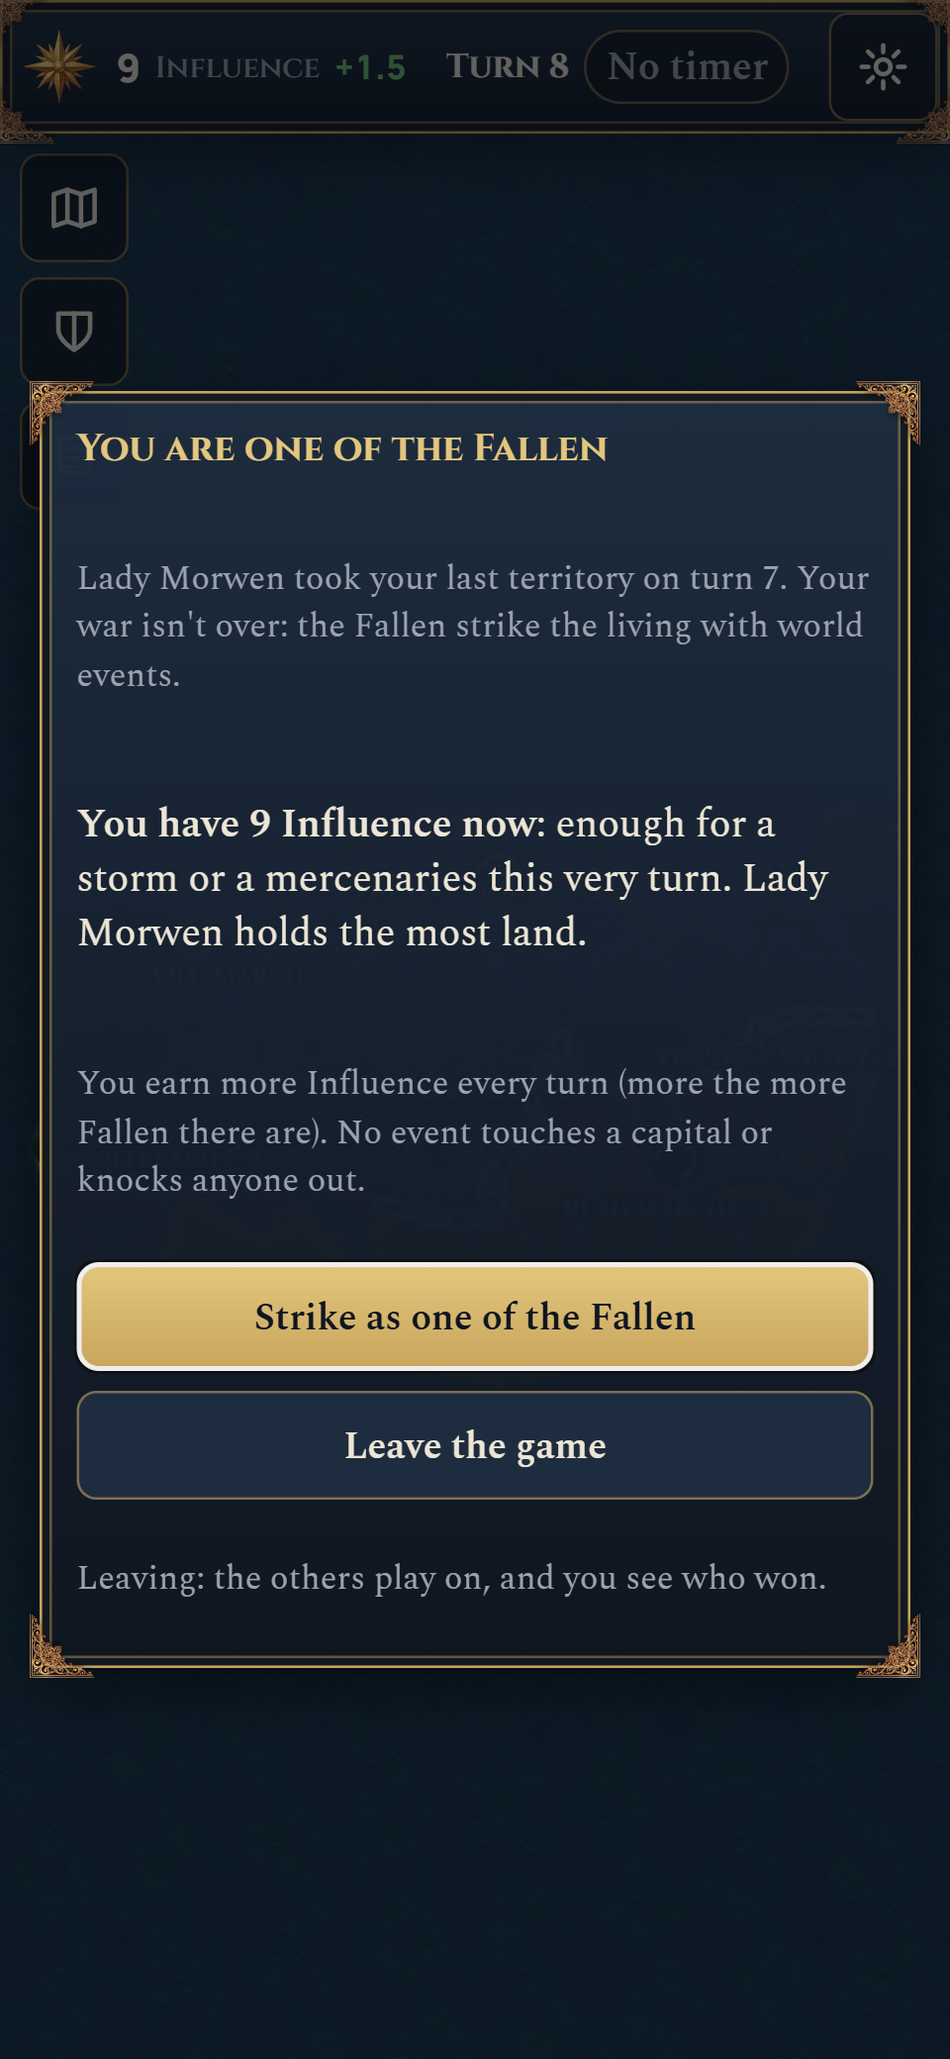
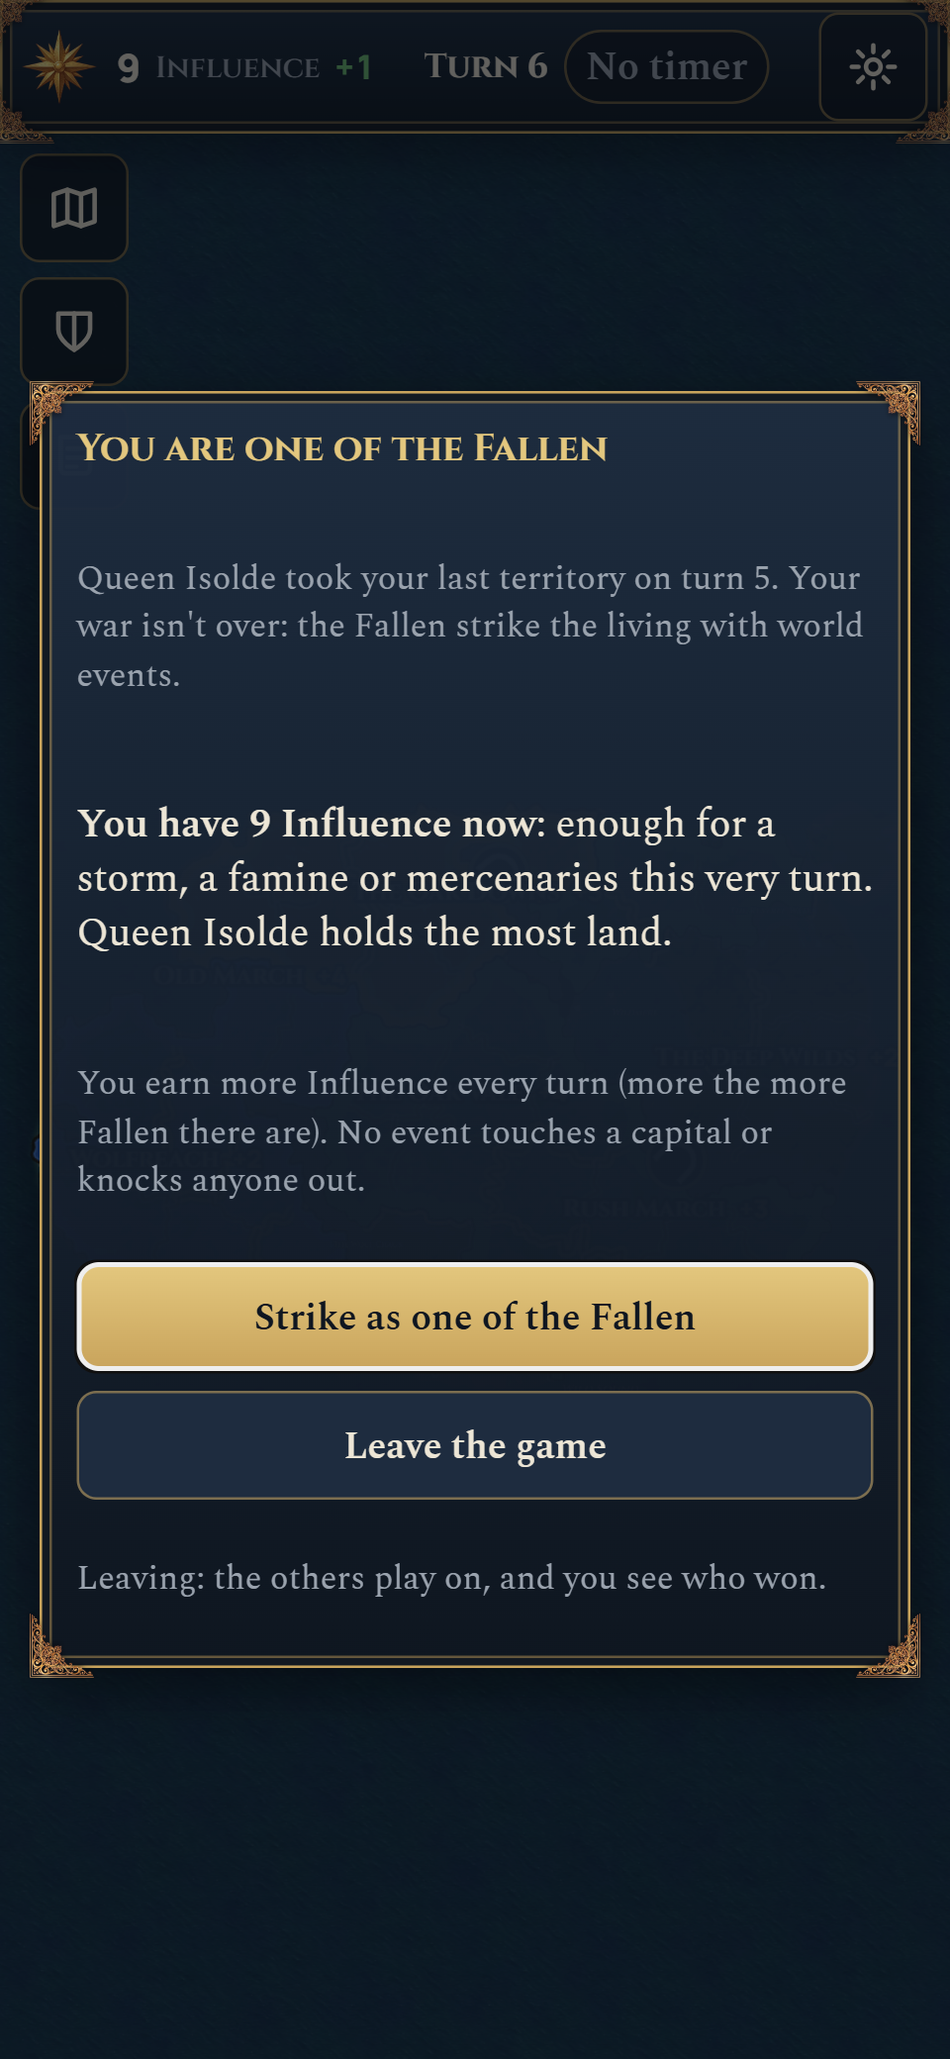
Part 5: the balance table, each system's cost, the Recruit check, the M3 checklist
- Every official map at its suggested sizes (500 games a line): length, within 40,
  runaways, comebacks, and seat fairness by capital spot.
- Each system's cost in turns at 4, 6 and 10 players (diplomacy +4 to +7,
  Spoils +3, the Fallen 0 to +2, Fate 0 to +2, spies about 0).
- The Recruit: a stand-in for a new player wins 45.6% against 3 Recruits on
  Embervale (was 35.4%).
- The M3 checklist, PROGRESS (session 19 and the test list), rules reference,
  design additions, map tooling notes, Fallen screenshots retaken.

diff --git a/packages/mapgen/scripts/try-maps.ts b/packages/mapgen/scripts/try-maps.ts
@@ -48,7 +48,9 @@ for (const shape of shapes)
         if (process.env.DEBUG_MAPS) console.error(e);
         failed++;
         times.push(performance.now() - t0);
-        const msg = (e as Error).message.split("\n").slice(1);
+        const lines = (e as Error).message.split("\n");
+        // A one-line error (not a list of failed checks) is a bug or a bad recipe: say it (session 19).
+        const msg = lines.length > 1 ? lines.slice(1) : [`error: ${lines[0]}`];
         for (const why of msg) {
           const k = why.replace(/^[^:]+: /, "").replace(/t\d+/g, "tN").replace(/\d+(\.\d+)?/g, "#").slice(0, 70);
           reasons.set(k, (reasons.get(k) ?? 0) + 1);

diff --git a/docs/sim-results-m3-balance.md b/docs/sim-results-m3-balance.md
@@ -3,7 +3,13 @@
 *Fog on, diplomacy on, every system on unless a line says otherwise, seats rotated every game. Raw outputs: `docs/sims/s19-*.txt`. Scripts: `apps/sim/scripts/s19-lines.ts` (one seat against a table, one line per test), `s19-early.ts` (early knock-outs), `s19-compare.ts` (two seats side by side), `s19-levers.ts` (Part 2), and the session 17 tournament script for the headline.*
 
 ## What changed and why (short)
-PART-SUMMARY
+- **The Marshal (Part 1):** a player who handed everything to their leaders beat the Marshals because the Marshal queued its purchases before its attacks, bought cavalry on a whim, and left one troop at home in its all-out opening (14% of Marshals were knocked out on turn 1 on Embervale). Now it queues armies first, skips the whim cavalry and keeps a guard at its capital. The delegating player is at or below its fair share; one Marshal beats Captains more often on every table.
+- **Culture pays (Part 2, pending Nate's pick):** +1 gold a turn a level (was +½), the best of three levers for the game as a whole. Your Steward starts at 20% where there's room and 10% on a crowded table.
+- **The Fallen (Part 3):** start with 8 Influence, so they can strike on their first turn out; the screens say what you can do right now.
+- **The snowball and runaways (Part 3):** the capital guard ended the turn-1 knock-outs; on Embervale with 4 Marshals, half the map by turn 10 fell from 71% to about 30–36% of games and games went from 21 to about 29 turns. The halfway leader wins less at every table. No rule change was needed.
+- **Bigger maps (Part 4):** Ashwing and The Sundered Crowns (160), Krakenmere and Rootholm (200), with Nate's OK; fine on a phone apart from the replay's frame rate at 10 players and memory.
+- **Seat fairness (Part 4):** a new finding: the capital spot decides a lot among equal bots on every map. Embervale's 4-player capitals were re-chosen with the simulator; the rest is listed for later.
+- **Long bot games are fine** (Nate): his own games run much shorter.
 
 ## Part 1: why a delegating player beat the Marshals, and the fix
 
@@ -216,3 +222,77 @@ Laptop, and a 384 px phone with its processor slowed 4 times (session 16's way),
   - **The replay at 10 players runs at 43–44 frames a second** (goal 50; Wyrmland at 6 players 84). The cause is how many armies and moves it draws at once with 10 players; the polish pass (session 20) rebuilds how the replay draws its lines and markers, so that's the place to fix it.
   - **JavaScript memory on the phone is 225–263 MB** on the big maps (Wyrmland 133). The causes: the map's data is 1.4–2.0 MB (413–552 KB to download, compressed; Wyrmland 1.15 MB, 321 KB) and is kept as plain objects (8,000+ decoration spots on a 200 map), and 10 players' views, memories and replays. A mid-range phone copes; an old 2–3 GB phone may struggle. **Suggested fix (not built):** keep the decorations and outlines as packed number arrays after loading instead of thousands of small objects, and drop the raw map file once the map is painted.
 - **Planning time at 10 players** (Krakenmere and Rootholm, Marshals, every system on, 20 games each, `docs/sims/s19-speed.txt`): resolving a turn **6.5 ms on average, 95% under 12 ms, worst 25 ms**; all ten bots planning a turn together (diplomacy and the Fallen included) **7.6 ms, worst 33 ms**; one Marshal 0.7 ms (worst 8 ms).
+
+## Part 5: the headline balance table
+
+### Every official map at its suggested table sizes
+Tables of Marshals (personalities dealt from each game's seed), every system on, fog on, 500 games a line (`docs/sims/s19-headline-maps.txt`, `s19-new-maps.txt`; seat fairness by capital spot from the same games, or `s19-spots*.txt` at 300 games for the new maps). Bot games run long; Nate's own games run much shorter, which he's happy with.
+
+| Map (territories), players | Turns (median) | Within 40 | Half the map after turn 10 | Halfway leader won | Comebacks | Win rate by capital spot (fair) |
+|---|---|---|---|---|---|---|
+| Embervale (40), 4 | 29.9 (28) | 82% | 36% | 68% | 42% | 12–41% (25%) |
+| Embervale (40), 6 | 39.3 (37) | 59% | 9% | 52% | 62% | 1–39% (17%) |
+| The Shattered Isles (60), 4 | 34.0 (31) | 76% | 15% | 70% | 51% | 4–67% (25%) |
+| The Shattered Isles (60), 6 | 44.8 (43) | 41% | 7% | 59% | 62% | 0–52% (17%) |
+| The Twin Realms (80), 4 | 29.3 (27) | 88% | 34% | 86% | 27% | 17–33% (25%) |
+| The Twin Realms (80), 8 | 44.3 (43) | 44% | 0% | 71% | 57% | 2–41% (12.5%) |
+| The Moon Coast (80), 4 | 34.7 (33) | 76% | 15% | 71% | 48% | 1–75% (25%) |
+| The Moon Coast (80), 8 | 47.0 (47) | 32% | 1% | 59% | 72% | 3–40% (12.5%) |
+| Greatmarch (80), 8 | 48.8 (50) | 26% | 0% | 58% | 75% | 3–23% (12.5%) |
+| Greatmarch (80), 10 | 51.3 (55) | 19% | 0% | 53% | 79% | 1–27% (10%) |
+| The Ringsea (100), 6 | 47.8 (49) | 31% | 2% | 62% | 66% | 6–30% (17%) |
+| The Ringsea (100), 10 | 53.1 (59) | 13% | 0% | 55% | 68% | 1–35% (10%) |
+| The Crownlands (100), 6 | 46.0 (45) | 38% | 2% | 65% | 67% | 2–42% (17%) |
+| The Crownlands (100), 10 | 50.9 (53) | 16% | 0% | 62% | 71% | 0–45% (10%) |
+| Wyrmland (120), 6 | 48.0 (50) | 31% | 2% | 63% | 60% | 3–38% (17%) |
+| Wyrmland (120), 8 | 54.5 (60) | 10% | 0% | 47% | 77% | 1–33% (12.5%) |
+| Ashwing (160), 6 | 57.8 (60) | 2% | 0% | 49% | 78% | 2–31% (17%) |
+| Ashwing (160), 8 | 58.5 (60) | 1% | 0% | 44% | 82% | 2–34% (12.5%) |
+| The Sundered Crowns (160), 6 | 46.6 (46) | 29% | 0% | 92% | 33% | 1–76% (17%) |
+| The Sundered Crowns (160), 8 | 54.3 (58) | 5% | 0% | 77% | 59% | 0–42% (12.5%) |
+| Krakenmere (200), 8 | 58.9 (60) | 0% | 0% | 54% | 80% | 0–57% (12.5%) |
+| Krakenmere (200), 10 | 59.4 (60) | 0% | 0% | 55% | 81% | 0–47% (10%) |
+| Rootholm (200), 8 | 59.4 (60) | 0% | 0% | 47% | 79% | 1–35% (12.5%) |
+| Rootholm (200), 10 | 59.9 (60) | 0% | 0% | 37% | 87% | 1–30% (10%) |
+
+**By table size** (averages of the lines above): **4 players** 32 turns, halfway leader wins 74%, comebacks 42%; **6 players** 47 turns, 63%, 61%; **8 players** 53 turns, 57%, 73%; **10 players** 55 turns, 52%, 77%. Games at 4 players sit inside Nate's 30–40; bigger tables run longer between bots, and the runaway measures improve with table size.
+
+### Each system's cost in turns
+Everything on against that one system switched off (Marshal tables, 500 games a line, `docs/sims/s19-system-costs.txt`). "Cost" = how many turns longer the game is with the system on.
+
+| System | Embervale 4 | Wyrmland 6 | Greatmarch 10 | Also |
+|---|---|---|---|---|
+| Everything on | 29.9 turns | 48.0 | 51.3 | |
+| **Diplomacy** | **+3.8** | **+5.6** | **+6.9** | Without it the snowball returns (Embervale half-map by turn 10: 36% → 49%; halfway leader 68% → 75%). |
+| **Spoils** | +2.6 | +3.0 | +3.0 | Without it, more runaways on Embervale (42% half-map). |
+| The Fallen | +0.3 | +1.8 | +2.4 | |
+| Fate | +0.3 | +1.7 | +0.4 | More comebacks without it on Embervale (50% vs 42%): noise or its luck helping the leader; worth a look. |
+| Spies | +0.2 | +0.3 | −0.8 | No real cost in turns. |
+| Leaders | 0 | 0 | 0 | Bots plan their own realm and don't use leaders, so bot tables can't show a cost; a person's leaders play at a Marshal's level (Part 1). |
+
+### The Recruit stays easy
+A stand-in for a new player (the Captain) against three Recruits on Embervale, 500 games: **45.6%** (fair 25%; before this session 35.4%). So the stand-in wins nearly twice its share, more than before, but not quite "most games": on Embervale the capital spot still swings games more than skill does among bots (12–41% between spots even for equal bots). With 2 Recruits it's 26.8% (fair 33%), for the same reason. **For Nate:** make the Recruit weaker still (it could hold back part of its gold or chain less), or wait for fairer capital spots?
+
+### Speed before M4
+10 players on Krakenmere and Rootholm, every system on (Part 4): resolving a turn 6.5 ms on average (95% under 12 ms, worst 25 ms); all ten bots planning together 7.6 ms (worst 33 ms); one Marshal 0.7 ms (worst 8 ms). Over Cloudflare's free 10 ms a request at the worst turns, so the plan's Workers Paid at the start of M4 stands.
+
+## The M3 checklist (for the orchestrator, to close M3 after session 20)
+Each M3 item in `docs/03-build-plan.md`, as of the end of session 19:
+
+| M3 item | State | Notes |
+|---|---|---|
+| Leader-as-general (standing instructions) and captured generals | **Done** | Sessions 12, 15, 18 (grown into leaders you delegate to, with Stewards, budgets and purses). |
+| Spoils and Fate decks | **Done** | Session 13; Spoils reworked in 16. |
+| Preset diplomacy with counteroffers and the re-confirm rule | **Done** | Sessions 14–15 (truces, trades, joint wars, right of passage; handshake and binding; Oathbreaker). Deals between people wait for M4. |
+| The Fallen | **Done** | Session 12; acting from the first turn out in 19. |
+| Specialist unlocks via culture | **Done** | Session 15's culture ladder. |
+| Spies | **Done** | Session 15 (upkeep only while away, 16). |
+| Smarter bots (passes, choke points, sea landings) | **Done**, the length target moved | The Captain (8–9), the Marshal (17, lifted in 19). The old aim "4–6 player games under 25 turns" no longer holds: Nate wants up to 30–40 turns, and his own games run shorter than bot games. Bot tables now run 28–38 turns at 4–6 players on the small and middle maps. |
+| Balance pass using the sim | **Done** (19), **two things moved** | Length, runaways, the small-map snowball, culture and buildings that pay (culture +1, pending Nate's pick), the Fallen's first turn, each system's cost, the Recruit, speed. **Moved to a later session:** seat fairness by capital spot on every map but Embervale-4 (the finding and the tools are in; the search for big maps needs a smarter method), and catch-up rules for runaways (options listed, not built). |
+| Map lab, 12-seed gallery, art test bench | **Done** | Sessions 10–11; used for the four big maps in 19. |
+| Bigger maps (about 160 and 200) | **Done** | Ashwing, The Sundered Crowns, Krakenmere, Rootholm (Nate's OK). |
+| Single-player pause and saved games | **Done** | Session 13 (saves migrate; old fixtures load). |
+| The polish pass (effects, cinematic replay, art batch 4) | **Partly done: session 20** | Not started; the replay's frame rate at 10 players on a phone (43–44 fps, goal 50) belongs there. |
+| The language pass | **Not started: session 21** | Nate's own voice, a tone per bot personality. |
+| Speed check before M4 | **Done** | 10 players on a 200 map: resolving 6.5 ms average (worst 25 ms), all bots planning 7.6 ms (worst 33 ms) on Nate's PC. Over Cloudflare's free 10 ms per request at the worst turns, so the plan's "Workers Paid at the start of M4" stands. |
+| Phone memory on the biggest maps | **Watch** | 225–263 MB of JavaScript memory on a phone (Wyrmland 133); a packed-array fix is suggested, not built. |

diff --git a/PROGRESS.md b/PROGRESS.md
@@ -16,9 +16,9 @@
 - Website (later): conquerra.overconfidenceonline.com
 
 ## Status right now
-**Phase: M3 (depth and balance). Sessions 7–18 are done. Next: session 19 (`docs/prompts/claude-code-session-19.md`): the balance pass and bigger maps; then Nate's play test (the list is under "Things to test after session 19"); then 20, the polish pass.**
+**Phase: M3 (depth and balance). Sessions 7–19 are done. Next: Nate's play test (the list is under "Things to test after session 19"); then session 20, the polish pass.**
 
-Claude Code sessions completed: **18** (a new orchestrator prompt is due after sessions 3, 6, 9, 12, 15, 18, ...)
+Claude Code sessions completed: **19** (a new orchestrator prompt is due after sessions 3, 6, 9, 12, 15, 18, ...)
 
 ---
 
@@ -958,8 +958,29 @@ All four parts are done, each committed and pushed. Art batch 4 wasn't imported 
 - **Eighteen Claude Code sessions are done,** so there's a fresh orchestrator prompt: `docs/prompts/orchestrator-07.md`.
 - **Next:** session 19 (`docs/prompts/claude-code-session-19.md`, run it locally), then Nate's play test.
 
+### Oct 7: Claude Code session 19 (M3: the balance pass, and bigger maps)
+All five parts are done, each committed and pushed. Art batch 4 wasn't imported (session 20). Full write-up: `docs/sim-results-m3-balance.md`.
+- **Step 0:** the "keep or let go" dialog lists captured Stewards too (they used to go by default without a choice).
+- **Why a delegating player beat the Marshals (Part 1):** not diplomacy and not the Leader's +20%. The Marshal queued its purchases before its attacks (each order takes a round, so rivals moved first), bought cavalry on a whim, and in its all-out opening left one troop at home: on Embervale, where capitals are 3 steps apart, **14% of Marshals were knocked out on turn 1** (a delegating player's starting gold stayed home as troops, by accident). Now the Marshal queues troops and attacks first, skips the whim cavalry, and keeps a **guard at its capital** (half of any rival army within 3 steps, and half its stack for the first 3 turns). A player who hands everything to their leaders now wins 20% against Marshals on Embervale (fair 25%; was 30–37%) and 1.09× fair on Wyrmland (was 1.46×). One Marshal beats Captains more often on every table (Embervale 32% → 40%, Greatmarch 11% → 21%).
+- **Culture and buildings that pay (Part 2), pending Nate's pick:** three levers tested alone and in pairs. All but quick forts make building pay on big maps; on a 4-player Embervale nothing makes 20% on buildings pay before the game is decided; bigger or cheaper markets made the Merchant too strong. **Picked: culture +1 gold a turn a level** (was +½). Your Steward's default is now **20% with room, 10% on a crowded table** (12 or fewer territories a player), and "Run the realm" buys culture where it pays.
+- **The Fallen, the snowball, runaways (Part 3):** a knocked-out player starts with **8 Influence** (9+ on the first turn out: a storm, a famine or mercenaries), the dialog and panel say what you can do this very turn, and Fallen bots strike the biggest realm on their first turn. **The 4-player snowball is gone, from the bots alone:** half the map by turn 10 in 71% → 30% of games, 21 → 29 turns, comebacks 22% → 45%. The capital's opening guard now holds on every table (knocked out by turn 6: 15–24% → 1–2%); the halfway leader wins 47–79% (was 59–87%). Stronger gang-ups and an earlier runaway reading made no difference; catch-up rules are listed as options only.
+- **Bigger maps (Part 4), Nate's OK:** **Ashwing** (a phoenix, 160, 6–8 players), **The Sundered Crowns** (twin continents, 160, 6–8), **Krakenmere** (a kraken, 200, 8–10) and **Rootholm** (a tree of life, 200, 8–10; redrawn after Nate said the first looked like a uvula). The lobby says who each map suits. On a phone they paint in 3.5–4.4 s and pan at 74–105 fps; the replay at 10 players is 43–44 fps (goal 50, the polish pass) and memory 225–263 MB (a fix is suggested).
+- **A finding that touches every map:** among equal bots, **the capital spot decides a lot** (Embervale 4: one spot won 53%, another 1%). Earlier sessions measured seats by number, which are shuffled, so it stayed hidden. Embervale's 4-player capitals were re-chosen with the simulator (now 13–38%); the other maps are listed for a later session.
+- **Nate's notes during the session:** both 160 maps official, Krakenmere official, the tree redrawn ("more of a tree of life look") and then OK'd; **long bot games are fine** ("all of my runs on the maps, even big ones, go for significantly less turns than your tests").
+- **Screenshots** (desktop and 384 px phone), `docs/art/screens/s19-*.png`: each new map at Far and Mid, the Fallen's choice and their first turn out. Galleries and Far pictures: `docs/maps/s19/`.
+- **Tests and deploy:** see the end of the write-up; Nate: please check the repo's Actions page for the last commit.
+
 ### Things to test after session 19 (Nate's next play test)
 *The orchestrator adds to this list after each session. Laptop: 6 players on Wyrmland, you in red; phone: the same checks where they apply.*
+- **From session 19 (the balance pass and bigger maps), most important first:**
+  1. **Embervale against 3 Marshals:** does the game last longer (the sims say about 29 turns, was 21), and does someone run away less? Does anyone get knocked out in the first few turns (they shouldn't now)?
+  2. **A 6–8 player game on a new ~160 map** (Ashwing or The Sundered Crowns): how many turns, does the size feel right for big battles, and do the neck (Ashwing) and the strait (Sundered Crowns) matter?
+  3. **Does culture or building now feel worth it?** Culture gives +1 gold a turn a level now. Raise culture on safe land early and see if it pays; watch what your Steward builds on its own. (The three levers are in the write-up if you'd pick another.)
+  4. **Get knocked out on purpose once** and try the Fallen's first turn: is it obvious what you can do straight away? Did your event land, and did it feel worth staying for?
+  5. **Try to run away against Marshals** on Wyrmland: do they team up on you, and when?
+  6. **An 8–10 player game on Krakenmere or Rootholm** (the lobby defaults to Conquest, 20 turns, at 8+ players): is 20 turns enough on a 200 map? On the phone: is it smooth enough?
+  7. **Your starting spot:** did it feel fair? (Sims found some capital spots much stronger; Embervale's 4-player spots were re-chosen.)
+  8. **Never touch your Steward** on Embervale with 4 (it starts at 10% there) and on Wyrmland (20%): does it feel like the right amount?
 - **From session 16:**
   - zoom all the way in (sharp?) and all the way out (everything visible clear of the menus? the province names readable, not piled up?)
   - tap territories you don't own: does the province light up clearly, with its name and bonus?

diff --git a/docs/07-map-tooling.md b/docs/07-map-tooling.md
@@ -156,3 +156,14 @@ Moved from session 9 to 10, because Nate's play-test fixes come first. Nate's di
 **How long things take** (Nate's laptop, Chrome): making a 60-territory map 1–3 s, a 100-territory one about 1.5–5 s, a 120-territory one 3–20 s (big archipelagos and crescents need the most tries; Node is about twice as fast). "Sim this map": 100 ten-player games on a 100-territory map in about 20 s. The gallery: about 2 s a map at 100 territories.
 
 **Big maps on a phone** (emulated mid-range phone, CPU slowed 4x, `pnpm map-check labperf`, `docs/art/screens/perf-big.json`): a 120-territory map shows its first picture in 4.4–6.9 s and is fully painted in 6.1–7.1 s, against 4.5 and 6.0 s for Greatmarch measured the same way. Panning runs at 46–81 frames a second. The painting resolution already drops on big maps to keep memory near 47 MB (1.1–1.75 pixels per map unit instead of 2.2 on Greatmarch), so no change was needed.
+
+## Session 19: bigger maps, and fair seats by simulation
+- **New silhouettes in code** (`packages/mapgen/src/masks.ts`): `phoenix`, `kraken` and `worldtree` (the tree of life), drawn with `sym(width, ...right half)`, which mirrors the right half's points. Thin parts get rounded away by the coast: keep arms, roots and inlets at least about 8 units wide in the 0–100-high box.
+- **Trying a shape:** `pnpm --filter @conquerra/mapgen try-maps --shapes mask --mask kraken --sizes 200 --seeds 12 --out <folder>` (a one-line error, such as an unknown mask, is now printed instead of an empty failure; `DEBUG_MAPS=1` prints the full error). Twelve pictures side by side: `node apps/web/scripts/s19-gallery.mjs <folder> <out.png> "<title>"` (`docs/maps/s19/gallery-*.png`).
+- **Drawing a candidate in the game's own renderer:** `LAB=1 RECIPE='<recipe json>' node apps/web/scripts/shot.mjs embervale out.png fit` (with the built game running).
+- **Starting a recipe at the try that passed:** a map that passed its checks on try N of seed S is made, byte for byte, by seed `S#N` on its first try (only the map's label changes), so the tests that rebuild every official map stay quick (`mask-160-12#21` for Ashwing).
+- **Fair seats:** the map maker's fairness check (every capital about as far from its nearest rival; about as much gold within 2 steps) isn't enough: among equal bots some capital spots win far more often than others on every map (`docs/sim-results-m3-balance.md`, Part 4). Sims now record each seat's capital (`SeatStats.capital`).
+  - `npx tsx apps/sim/scripts/s19-spots.ts <map:players> [games]`: each capital spot's win rate.
+  - `npx tsx apps/sim/scripts/s19-fair-all.ts <map:players>`: every layout of the map's capital spots that passes the paper check, played by equal bots; the fairest ones checked again (fine for small maps: Embervale at 4 has 43).
+  - `npx tsx apps/sim/scripts/s19-fair-seats.ts <map:players>`: a quicker search that moves the strongest and weakest spot one at a time.
+  - A recipe pins what's found: `capitals: { 4: ["t02", "t20", "t28", "t37"] }` (by player count; the spots must be the map's own capital spots, which have the castles and plains). Only `capitalLayouts` changes in the map file.
